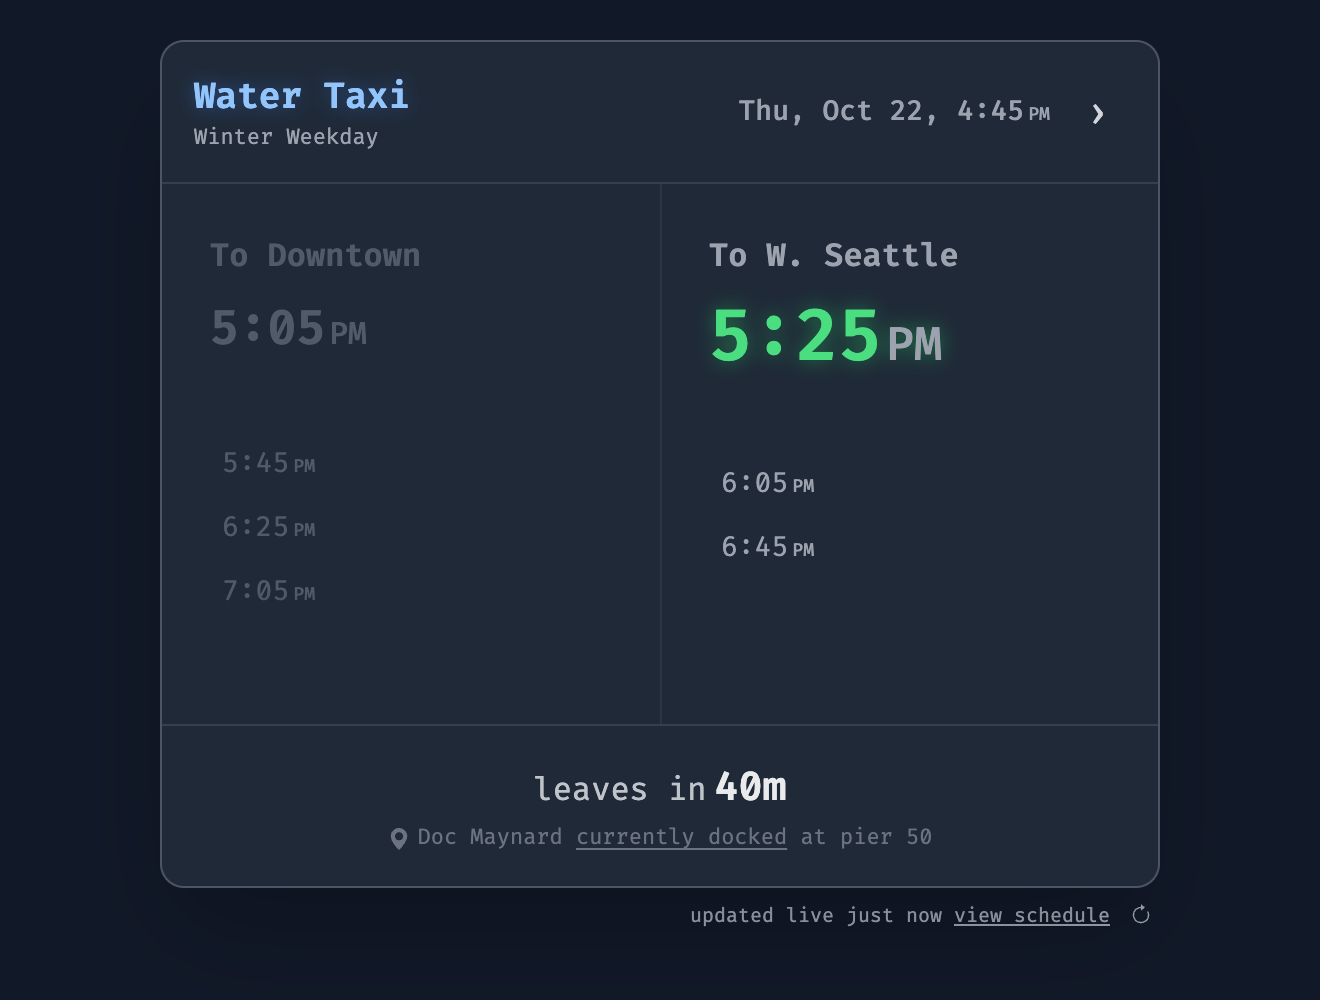
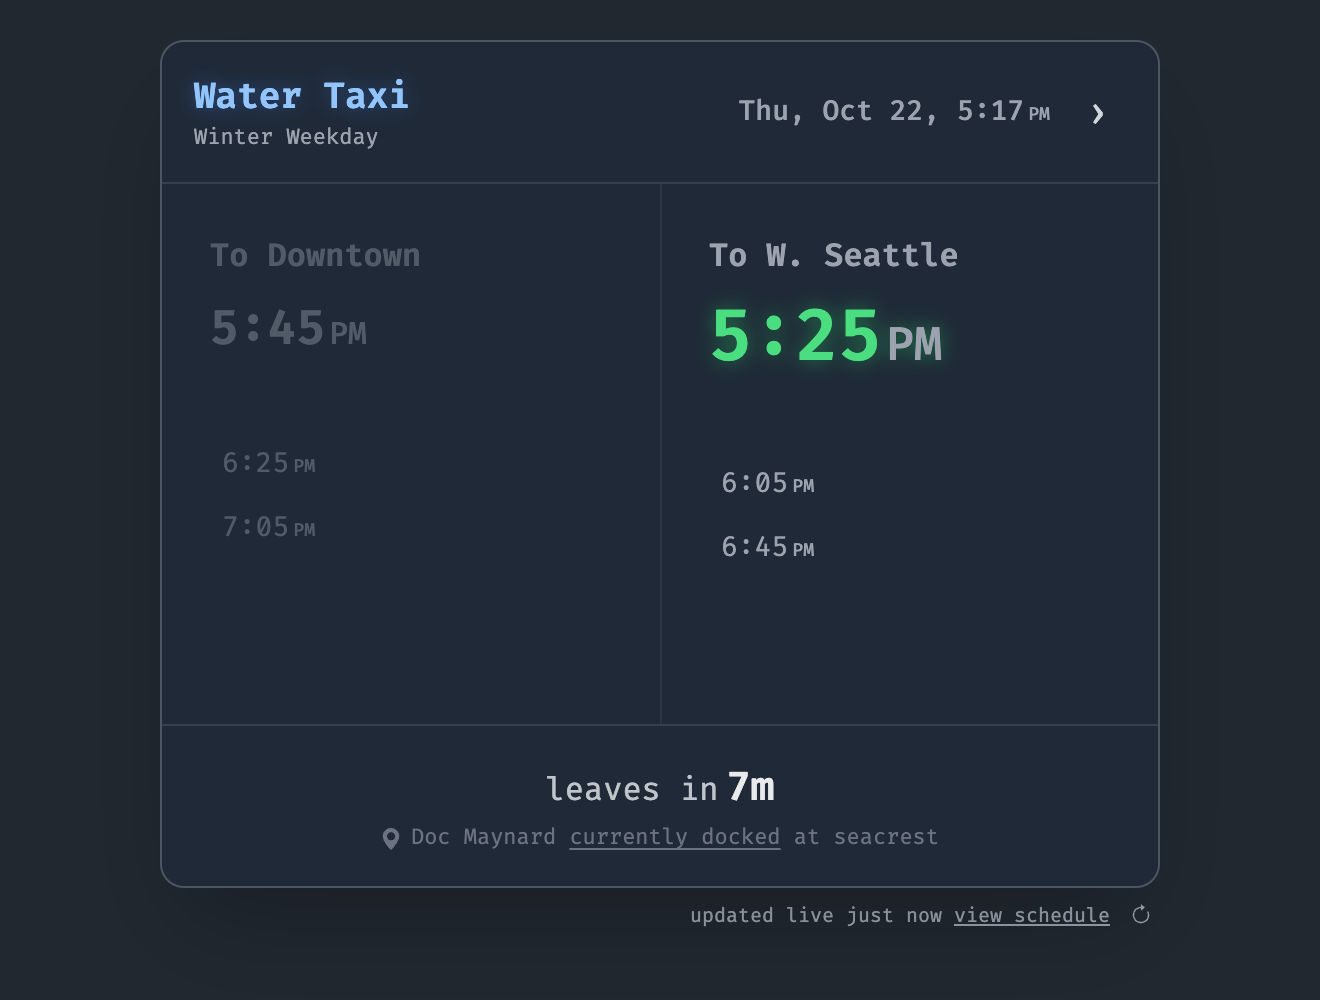
README: three short moments on GitHub's dark background

diff --git a/README.md b/README.md
@@ -17,40 +17,28 @@ When's the next West Seattle water taxi? The next sailing each way, a countdown 
 ## Features
 
 <table>
-<tr valign="top">
+<tr valign="middle">
 <td width="50%">
-<h3>Pick your direction</h3>
-<p>Click To Downtown or To W. Seattle and that side takes the lead. The countdown and live boat status follow it.</p>
+<p>Tap to flip direction</p>
 </td>
 <td width="50%">
-<img src="demos/direction.gif" alt="Pick your direction">
-</td>
-</tr>
-<tr valign="top">
-<td width="50%">
-<img src="demos/ahead.gif" alt="Look ahead a day">
-</td>
-<td width="50%">
-<h3>Look ahead a day</h3>
-<p>Step forward to see a future day's full schedule, weekday or weekend. The arrow takes you straight back to today.</p>
+<img src="demos/direction.gif" alt="Tap to flip direction">
 </td>
 </tr>
-<tr valign="top">
+<tr valign="middle">
 <td width="50%">
-<h3>Jump to any date</h3>
-<p>Click the date to open a calendar and pick a day. That day's schedule loads in place.</p>
+<img src="demos/calendar.gif" alt="Pop it in your calendar">
 </td>
 <td width="50%">
-<img src="demos/date.gif" alt="Jump to any date">
+<p>Pop it in your calendar</p>
 </td>
 </tr>
-<tr valign="top">
+<tr valign="middle">
 <td width="50%">
-<img src="demos/calendar.gif" alt="Add a sailing to your calendar">
+<p>Live WSDOT + OneBusAway data</p>
 </td>
 <td width="50%">
-<h3>Add a sailing to your calendar</h3>
-<p>Hover any time and click the calendar icon. The event it creates covers the trip with a buffer on each side, ready for Google Calendar.</p>
+<img src="demos/live.gif" alt="Live WSDOT + OneBusAway data">
 </td>
 </tr>
 </table>
